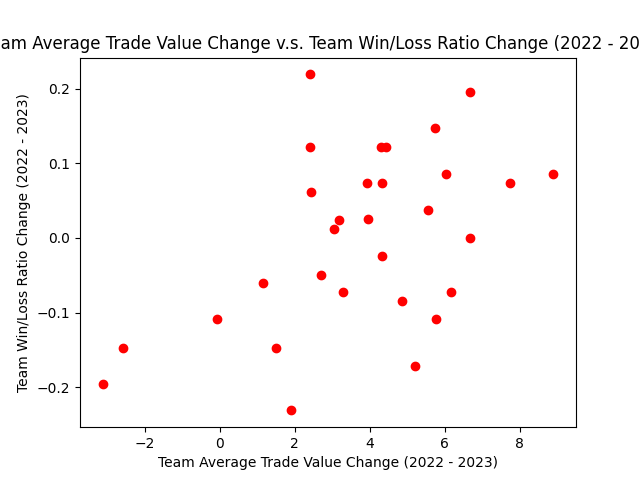
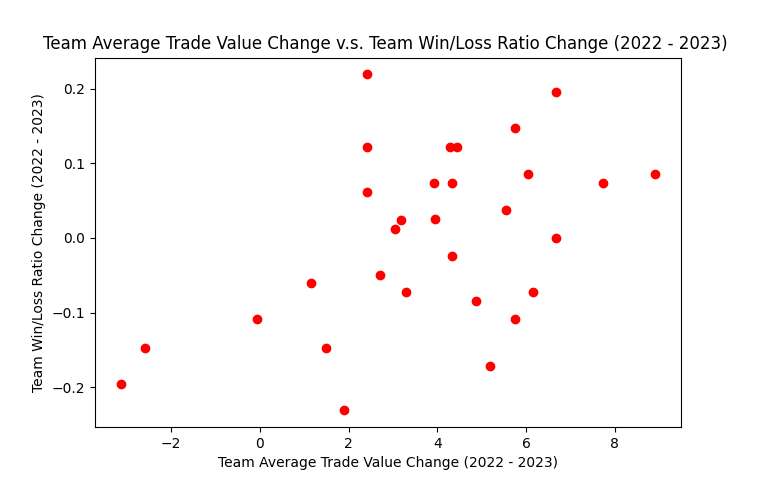
Figure fixes

diff --git a/evaluation/eval.py b/evaluation/eval.py
@@ -53,7 +53,7 @@ def deltaTVavg(statsA, statsB, model):
 statsA = getStats.getInfo(year1)
 statsB = getStats.getInfo(year2)
 
-usemodel = 'GradientBoosting'
+usemodel = 'RandomForest'
 
 tvs = deltaTVavg(statsA, statsB, usemodel)
 wls = deltaWL(statsA, statsB)
